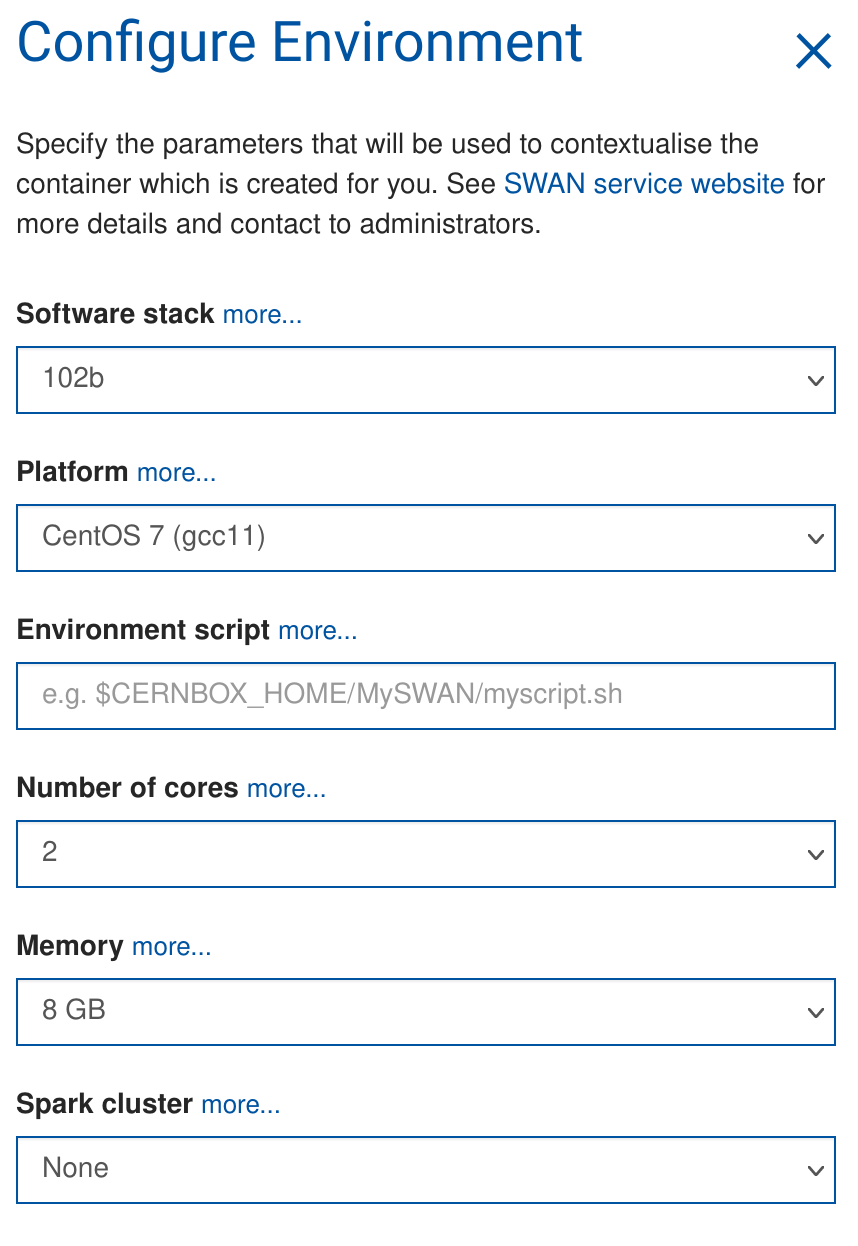
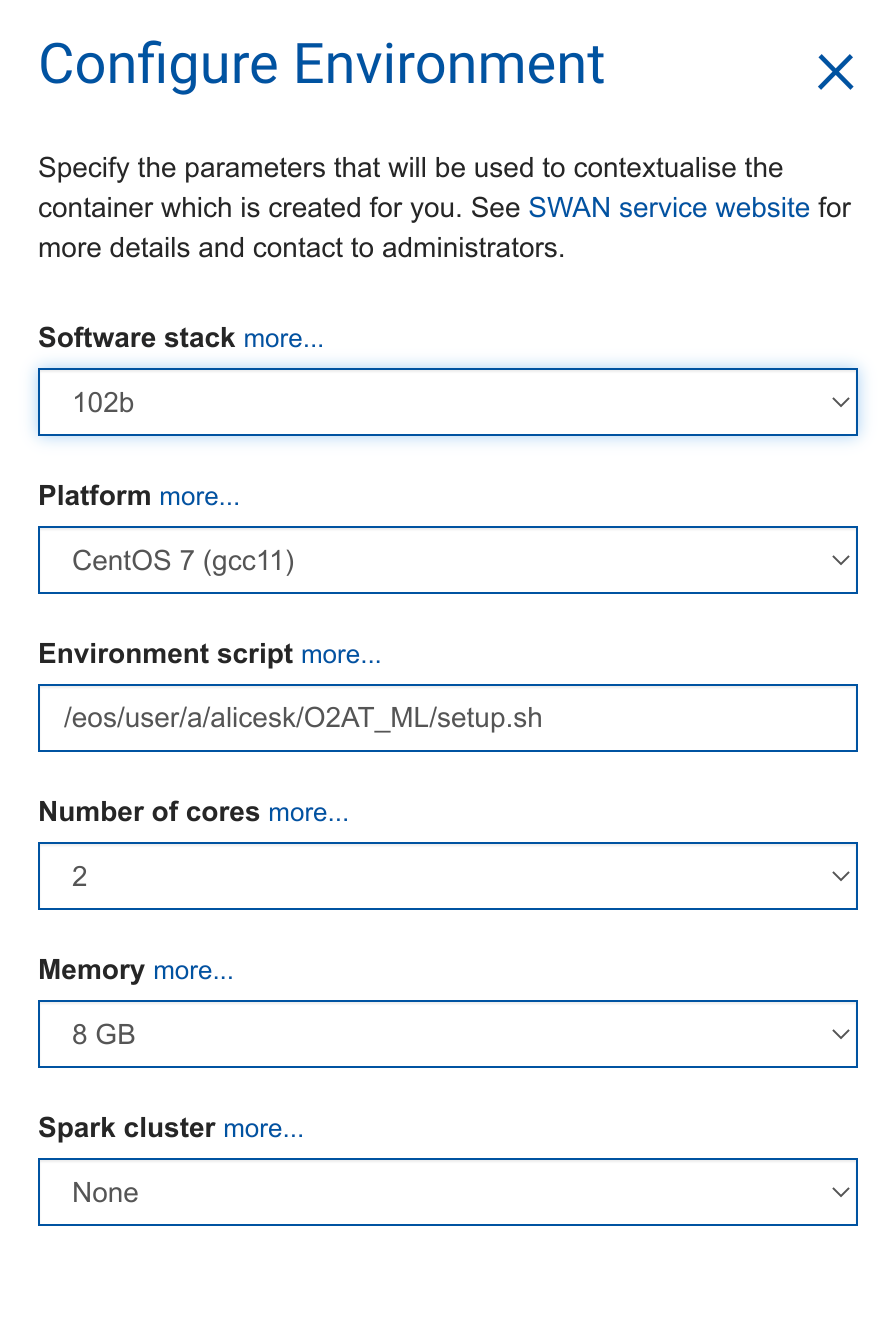
Update instructions

diff --git a/o2at-2/machineLearning/README.md b/o2at-2/machineLearning/README.md
@@ -12,7 +12,12 @@ We will run this tutorial on CERN SWAN, so click here
 
 to go to SWAN and automatically download this repository.
 
-We will use the default configuration, so you should have this setup
+To have the right environment configure SWAN in this way:
+
+- **Software stack**: 102b
+- **Environment script**: /eos/user/a/alicesk/O2AT_ML/setup.sh
+
+You should have this setup
 
 <img src="img/swan_configuration_highlight.png" alt= “swan_conf” width="50%">
 
@@ -22,8 +27,8 @@ The tutorials will be given using [Jupiter](https://jupyter.org/) Notebooks.
 
 ### BDT classification
 
-For this tutorial open the `dummy.ipynb` notebook in the folder `BDTClassification`.
+For this tutorial open the `dummy.ipynb` notebook in the folder `analysis-tutorials/o2at-2/machineLearning/BDTClassification`.
 
 ### Neural network regression
 
-For this tutorial open the `NeuralNetworks.ipynb` notebook in the folder `NeuralNetworkRegression`.
+For this tutorial open the `NeuralNetworks.ipynb` notebook in the folder `analysis-tutorials/o2at-2/machineLearning/NeuralNetworkRegression`.
